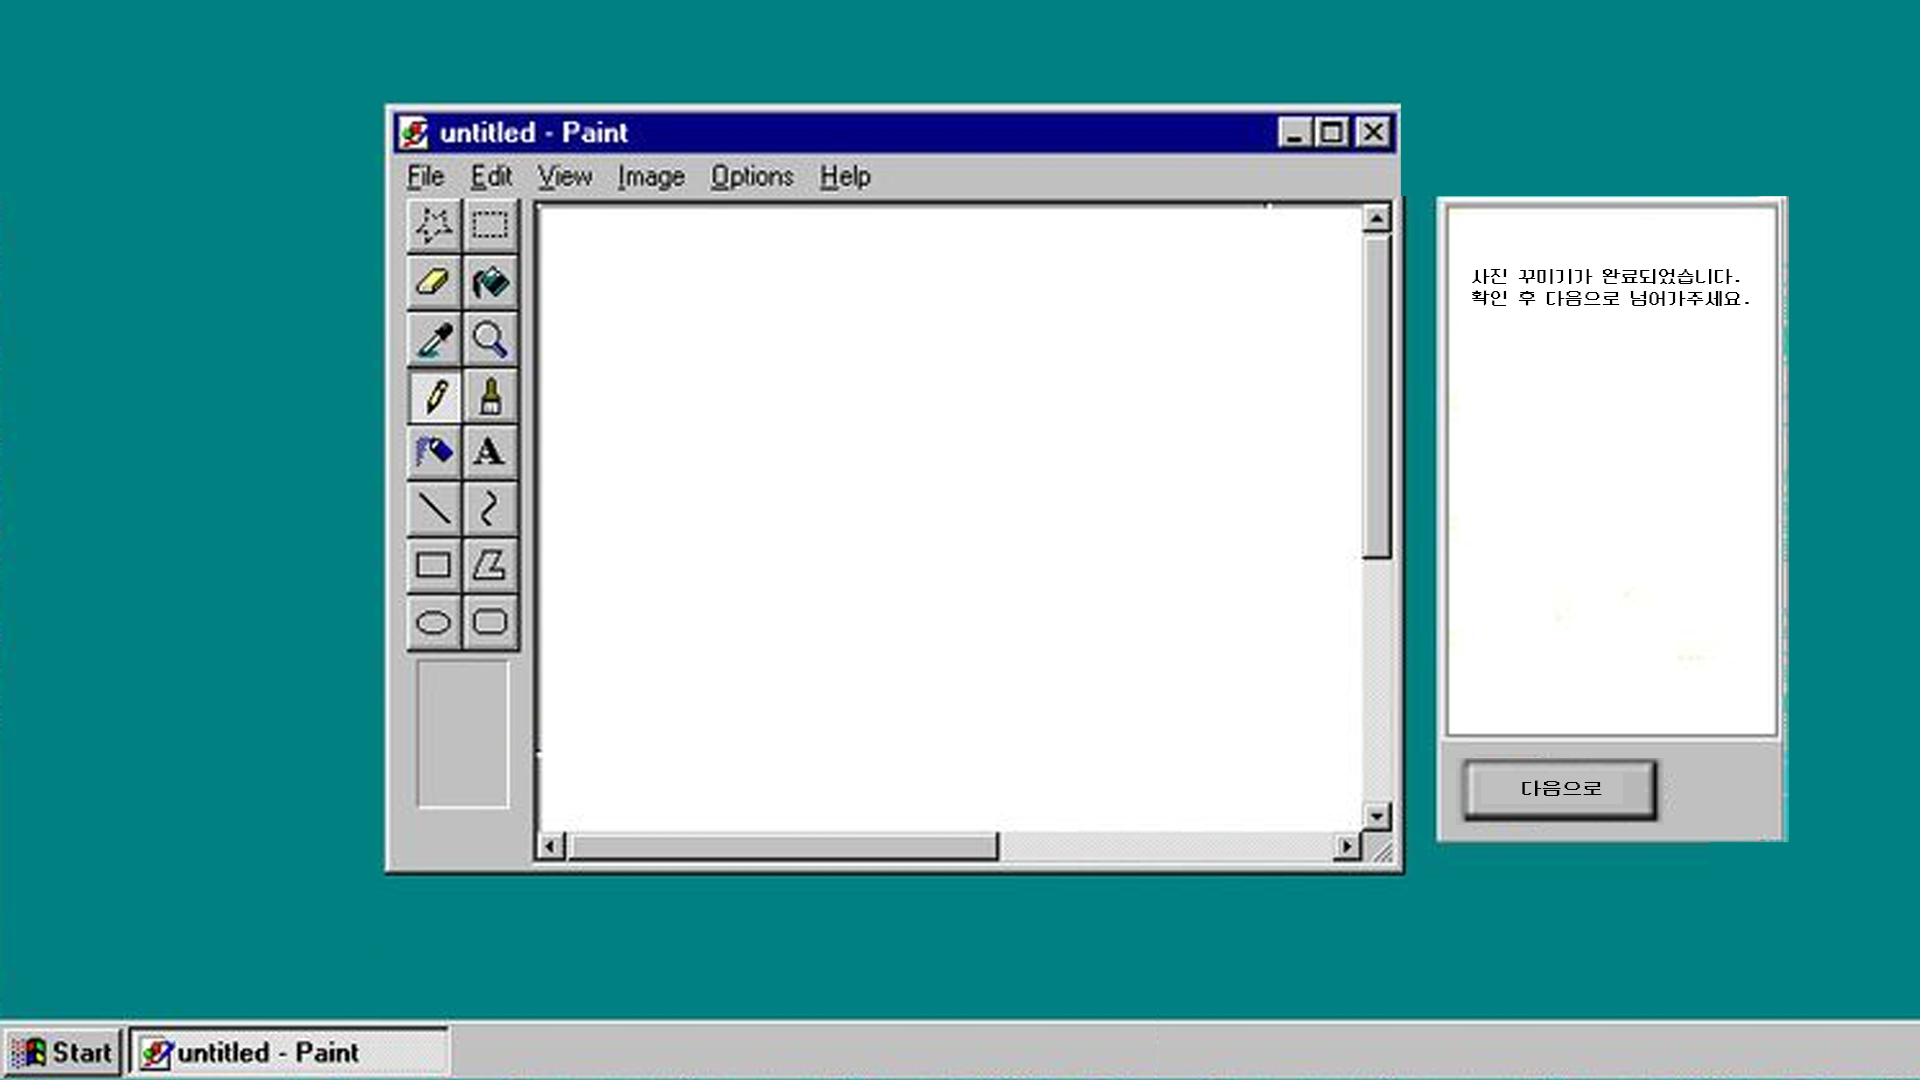
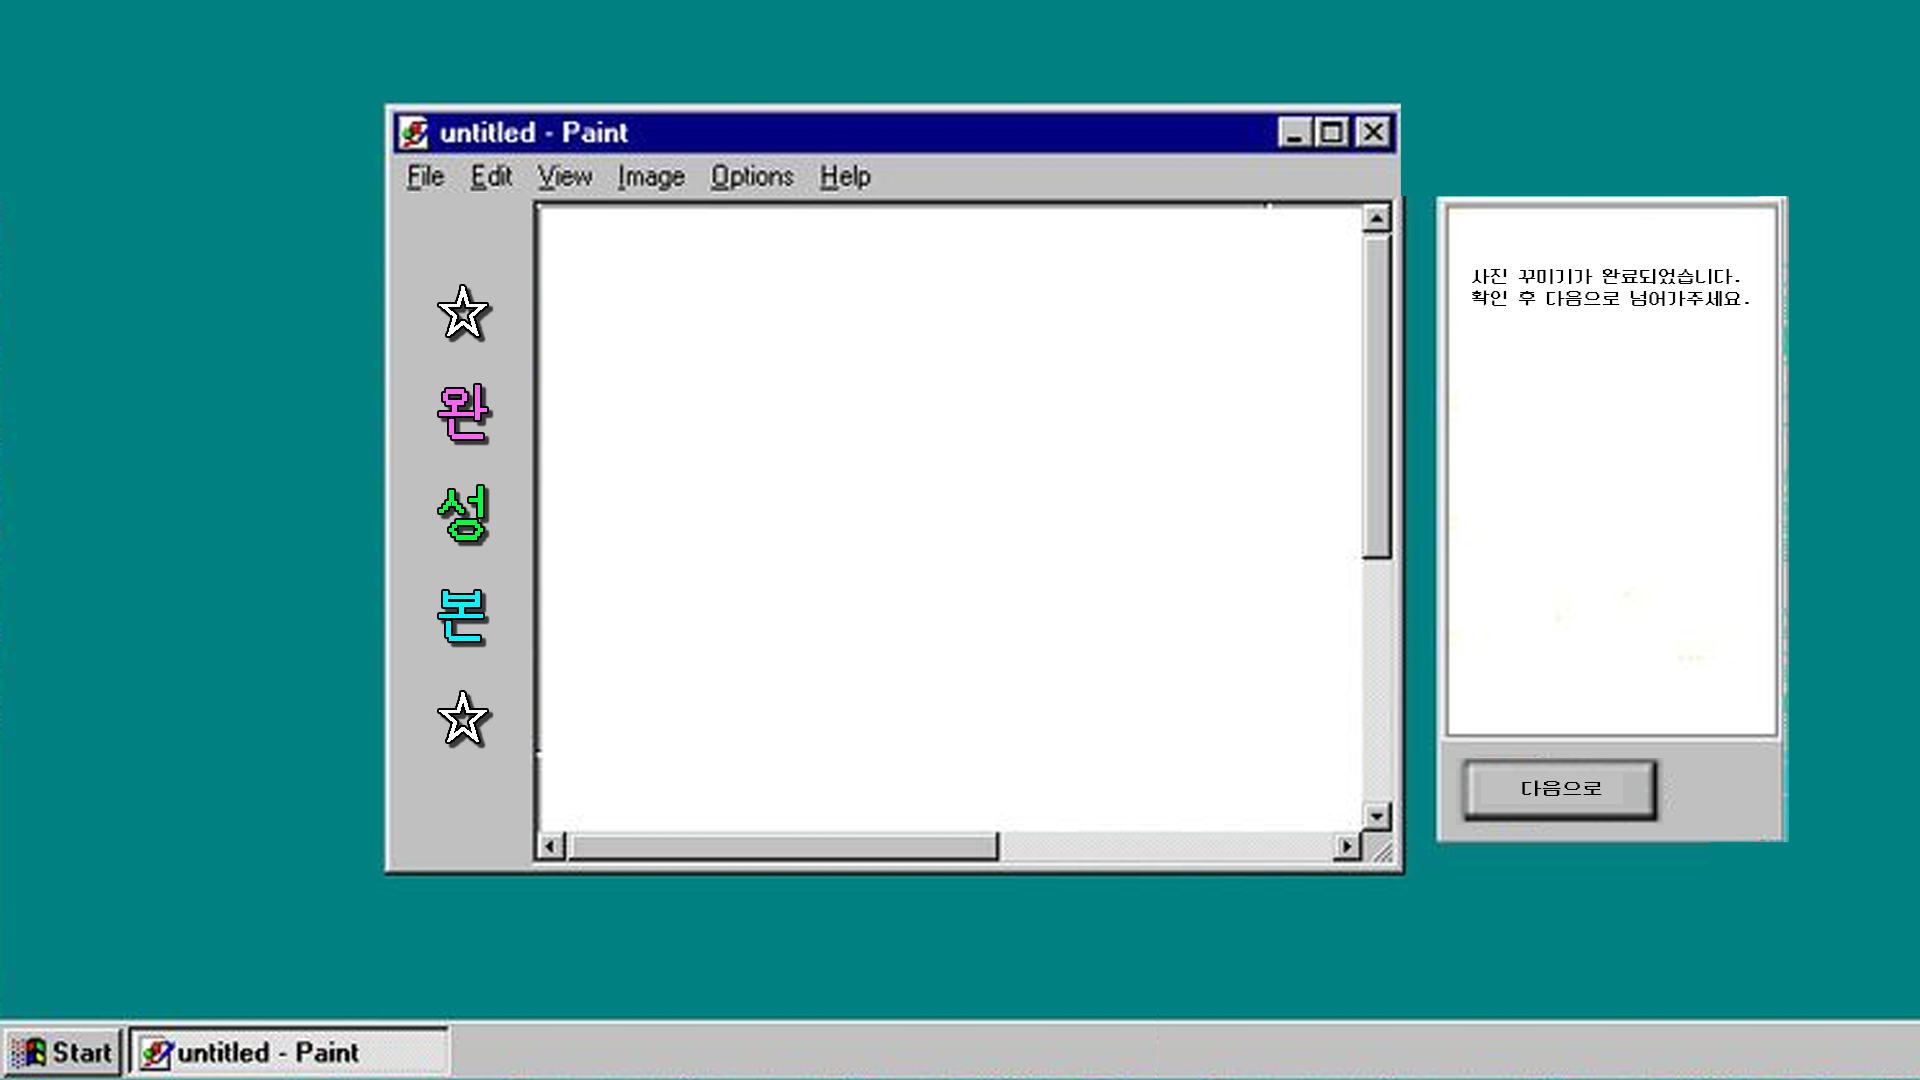
decoration updated

Changed region(s): [[0.1875, 0.1833, 0.2812, 0.6111], [0.2188, 0.6417, 0.2812, 0.7028]]

diff --git a/Final Codes/0617_0109_updated/sketch.js b/Final Codes/0617_0109_updated/sketch.js
@@ -474,64 +474,65 @@ function setup() {
   }
 
   // 브러쉬 색 변경 버튼
-  lightPinkButton = createButton('PINK');
+  blackButton = createButton('');
+  blackButton.style('font-family', 'DosGothic');
+  blackButton.style('font-size', '24px');
+  blackButton.style('color', color(255));
+  blackButton.style('background-color', 'transparent'); //버튼색 투명
+  blackButton.size(50, 50);
+  blackButton.position(430, 267);
+  blackButton.style('border', 'none');
+  blackButton.mousePressed(() => { brushColor = 'black'; });
+  blackButton.hide();
+
+  lightPinkButton = createButton('');
   lightPinkButton.style('font-family', 'DosGothic');
   lightPinkButton.style('font-size', '25px');
   lightPinkButton.style('background-color', 'transparent'); //버튼색 투명
-  lightPinkButton.size(73, 73);
-  lightPinkButton.position(173, 132);
+  lightPinkButton.size(50, 50);
+  lightPinkButton.position(430, 323);
   lightPinkButton.style('border', 'none');
   lightPinkButton.style('text-align', 'center');
   lightPinkButton.mousePressed(() => { brushColor = 'pink'; });
   lightPinkButton.hide();
 
-  lightBlueButton = createButton('BLUE');
+  lightBlueButton = createButton('');
   lightBlueButton.style('font-family', 'DosGothic');
   lightBlueButton.style('font-size', '25px');
   lightBlueButton.style('background-color', 'transparent'); //버튼색 투명
-  lightBlueButton.size(73, 73);
-  lightBlueButton.position(266, 132);
+  lightBlueButton.size(50, 50);
+  lightBlueButton.position(430, 380);
   lightBlueButton.style('border', 'none');
   lightBlueButton.style('text-align', 'center');
   lightBlueButton.mousePressed(() => { brushColor = 'lightblue'; });
   lightBlueButton.hide();
 
-  lightGreenButton = createButton('GREEN');
-  lightGreenButton.style('font-family', 'DosGothic');
-  lightGreenButton.style('font-size', '24px');
-  lightGreenButton.style('background-color', 'transparent'); //버튼색 투명
-  lightGreenButton.size(73, 73);
-  lightGreenButton.position(266, 227);
-  lightGreenButton.style('border', 'none');
-  lightGreenButton.mousePressed(() => { brushColor = 'lightgreen'; });
-  lightGreenButton.hide();
-
-  lavenderButton = createButton('LAVENDER');
+  lavenderButton = createButton('');
   lavenderButton.style('font-family', 'DosGothic');
   lavenderButton.style('font-size', '15px');
   lavenderButton.style('background-color', 'transparent'); //버튼색 투명
   lavenderButton.size(73, 73);
-  lavenderButton.position(173, 227);
+  lavenderButton.position(430, 437);
   lavenderButton.style('border', 'none');
   lavenderButton.mousePressed(() => { brushColor = 'lavender'; });
   lavenderButton.hide();
 
-  blackButton = createButton('BLACK');
-  blackButton.style('font-family', 'DosGothic');
-  blackButton.style('font-size', '24px');
-  blackButton.style('color', color(255));
-  blackButton.style('background-color', 'transparent'); //버튼색 투명
-  blackButton.size(73, 73);
-  blackButton.position(173, 319);
-  blackButton.style('border', 'none');
-  blackButton.mousePressed(() => { brushColor = 'black'; });
-  blackButton.hide();
+  lightGreenButton = createButton('');
+  lightGreenButton.style('font-family', 'DosGothic');
+  lightGreenButton.style('font-size', '24px');
+  lightGreenButton.style('background-color', 'transparent'); //버튼색 투명
+  lightGreenButton.size(50, 50);
+  lightGreenButton.position(430, 493);
+  lightGreenButton.style('border', 'none');
+  lightGreenButton.mousePressed(() => { brushColor = 'lightgreen'; });
+  lightGreenButton.hide();
+
 
   // Undo 버튼 생성
   undoButton = createButton('');
   undoButton.style('background-color', 'transparent'); //버튼색 투명
-  undoButton.size(73, 73);
-  undoButton.position(269, 319);
+  undoButton.size(50, 50);
+  undoButton.position(430, 548);
   undoButton.style('border', 'none');
   undoButton.mousePressed(() => {
     if (drawing.length > 0) {
@@ -540,16 +541,16 @@ function setup() {
   });
   undoButton.hide();
 
-
-  clearButton = createButton('CLEAR');
+  clearButton = createButton('');
   clearButton.style('font-family', 'DosGothic');
   clearButton.style('background-color', 'transparent'); //버튼색 투명
   clearButton.style('border', 'none');
   clearButton.style('font-size', '24px');
-  clearButton.position(267, 412);
-  clearButton.size(73, 73);
+  clearButton.position(430, 606);
+  clearButton.size(50, 50);
   clearButton.mousePressed(clearDrawing); // 클릭 시 clearDrawing 함수 호출
   clearButton.hide();
+
 
   nextButton = createButton('');
   nextButton.style('font-family', 'DosGothic');
